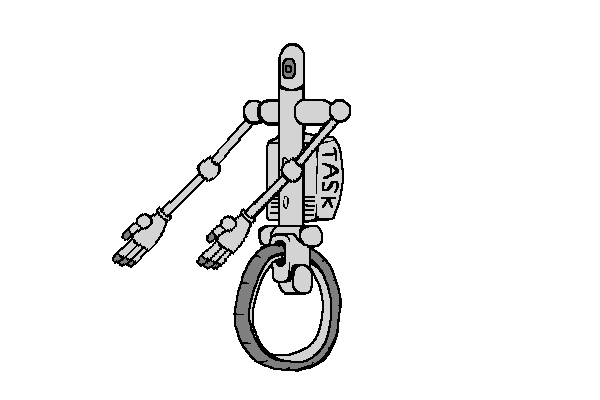
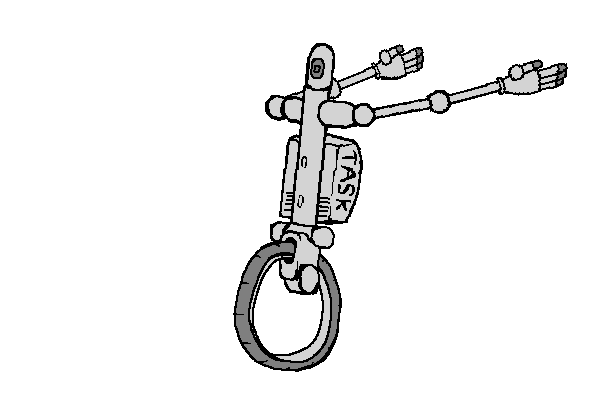
Enemy animation change.

Changed region(s): [[0.18, 0.09, 0.96, 0.75]]

diff --git a/src/main/java/ludum/dare/trait/AIMovementAggressiveTrait.java b/src/main/java/ludum/dare/trait/AIMovementAggressiveTrait.java
@@ -1,12 +1,16 @@
 package ludum.dare.trait;
 
 import com.badlogic.gdx.math.Vector2;
+import javafx.animation.Animation;
+import ludum.dare.utils.AnimationCallback;
 
 /**
  * Created by jake on 8/22/2015.
  */
-public class AIMovementAggressiveTrait extends Trait {
+public class AIMovementAggressiveTrait extends Trait implements AnimationCallback {
     private float speed, minDist;
+    private boolean attacking = false;
+    private AnimatorTrait animator;
 
     public AIMovementAggressiveTrait(GameObject obj, float s, float md) {
         super(obj);
@@ -15,11 +19,22 @@ public class AIMovementAggressiveTrait extends Trait {
     }
 
     @Override
+    public void initialize() {
+        super.initialize();
+        animator = self.getTrait(AnimatorTrait.class);
+        animator.registerAnimationCallback(this);
+    }
+
+    @Override
     public Class[] requires() {
-        return new Class[0];
+        return new Class[] {AnimatorTrait.class};
     }
 
     public void updateMovement(Vector2 target){
+        if (attacking) {
+            return;
+        }
+
         Vector2 vel = new Vector2(0, 0);
         if(target.x < self.getTrait(PositionTrait.class).x){
             self.getTrait(AnimatorTrait.class).flipped = false;
@@ -50,9 +65,22 @@ public class AIMovementAggressiveTrait extends Trait {
 //            log.debug("Enemy: Want to move up");
         }
         if(vel.x == 0 && vel.y == 0) {
-            self.getTrait(AnimatorTrait.class).changeStateIfUnique("hit", true);
+            self.getTrait(AnimatorTrait.class).setState("hit", false);
+            attacking = true;
         }
         vel = vel.nor().scl(speed);
         self.getTrait(PhysicalTrait.class).body.body.setLinearVelocity(vel);
+    }
+
+    @Override
+    public void animationStarted(String name) {
+
+    }
+
+    @Override
+    public void animationEnded(String name) {
+        if (name.equals("hit")) {
+            attacking = false;
+        }
     }
 }

diff --git a/src/main/java/ludum/dare/world/EnemyBasic.java b/src/main/java/ludum/dare/world/EnemyBasic.java
@@ -46,8 +46,8 @@ public class EnemyBasic extends GameObject{
         CollisionGroup group1 = new CollisionGroup();
         group1.circles = new Circle[]{ new Circle(-6.0f,1.5f,2.5f)};
 
-        hitSequence.frames = new CollisionGroup[5];
-        hitSequence.frames[3] = group1;
+        hitSequence.frames = new CollisionGroup[8];
+        hitSequence.frames[6] = group1;
         bundle.addHitboxSequence(hitSequence);
 
 
